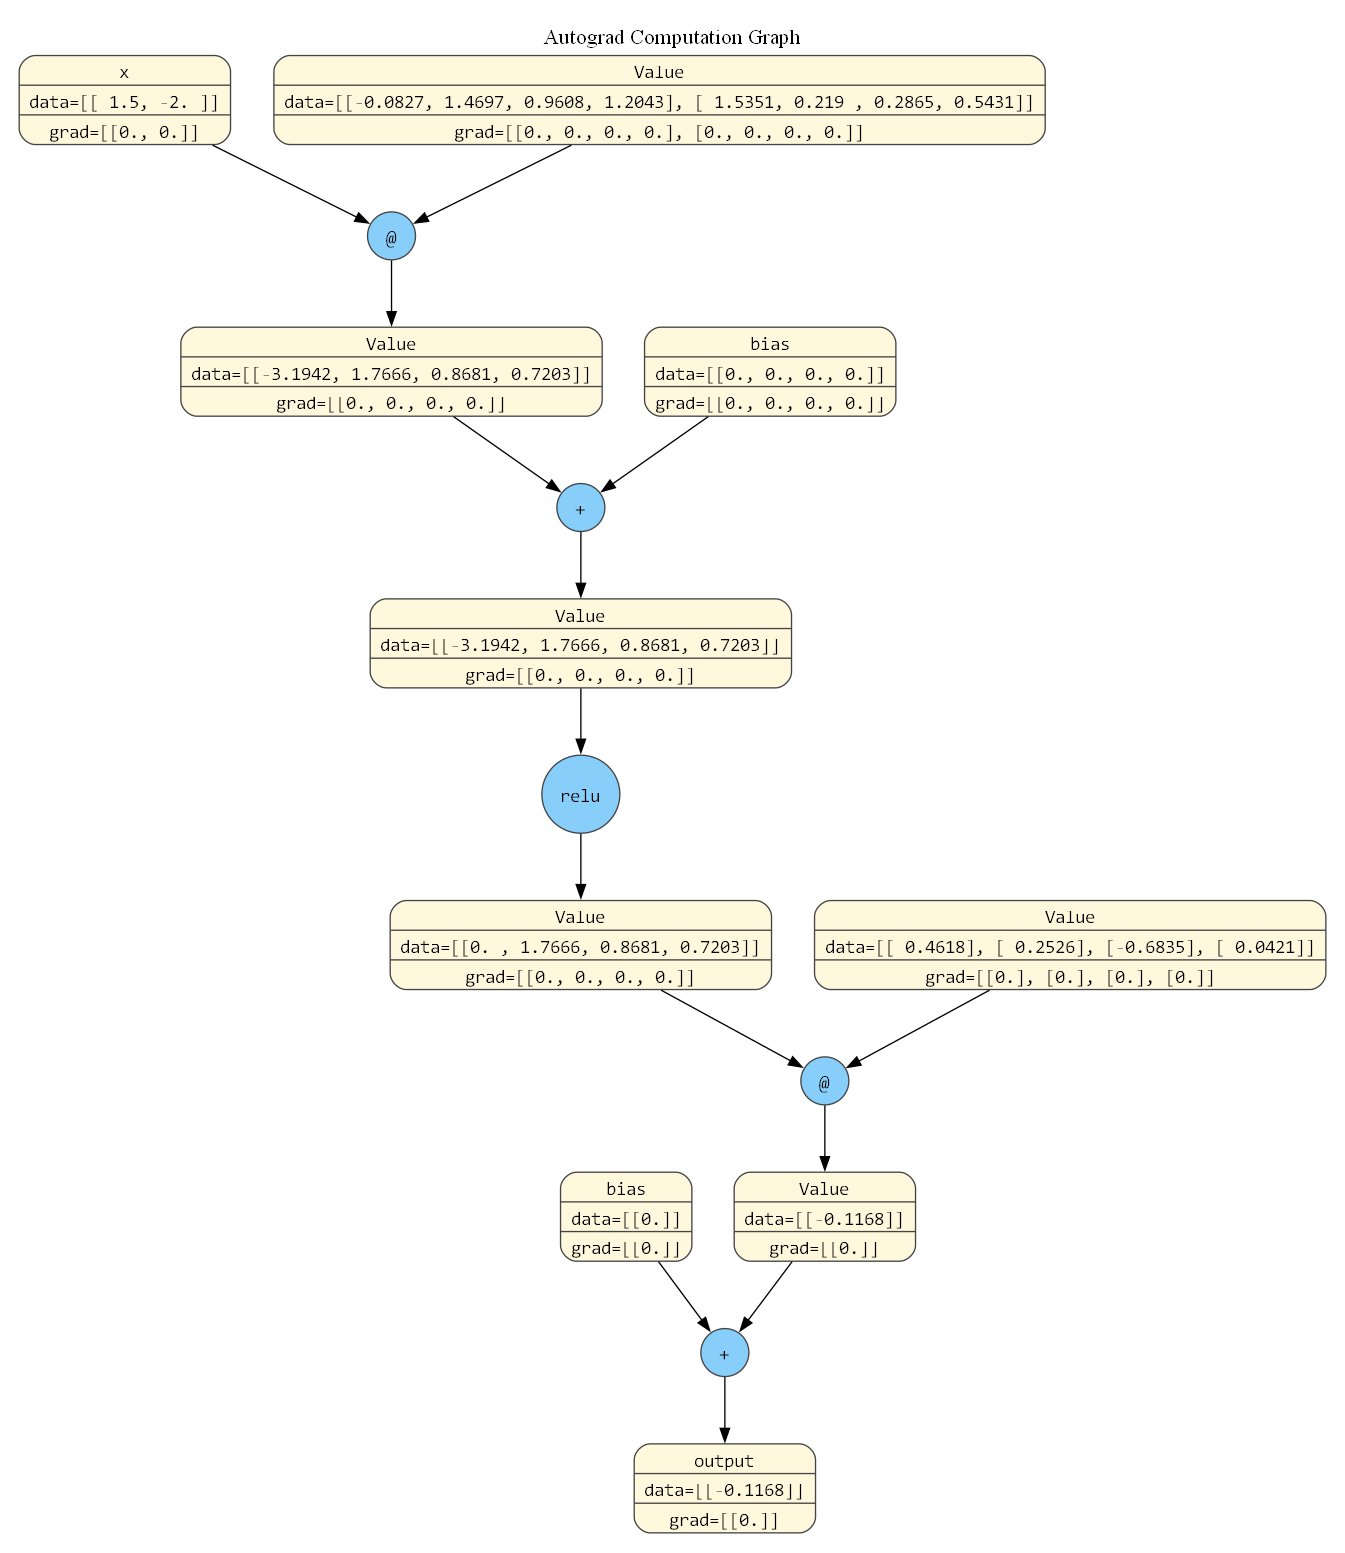
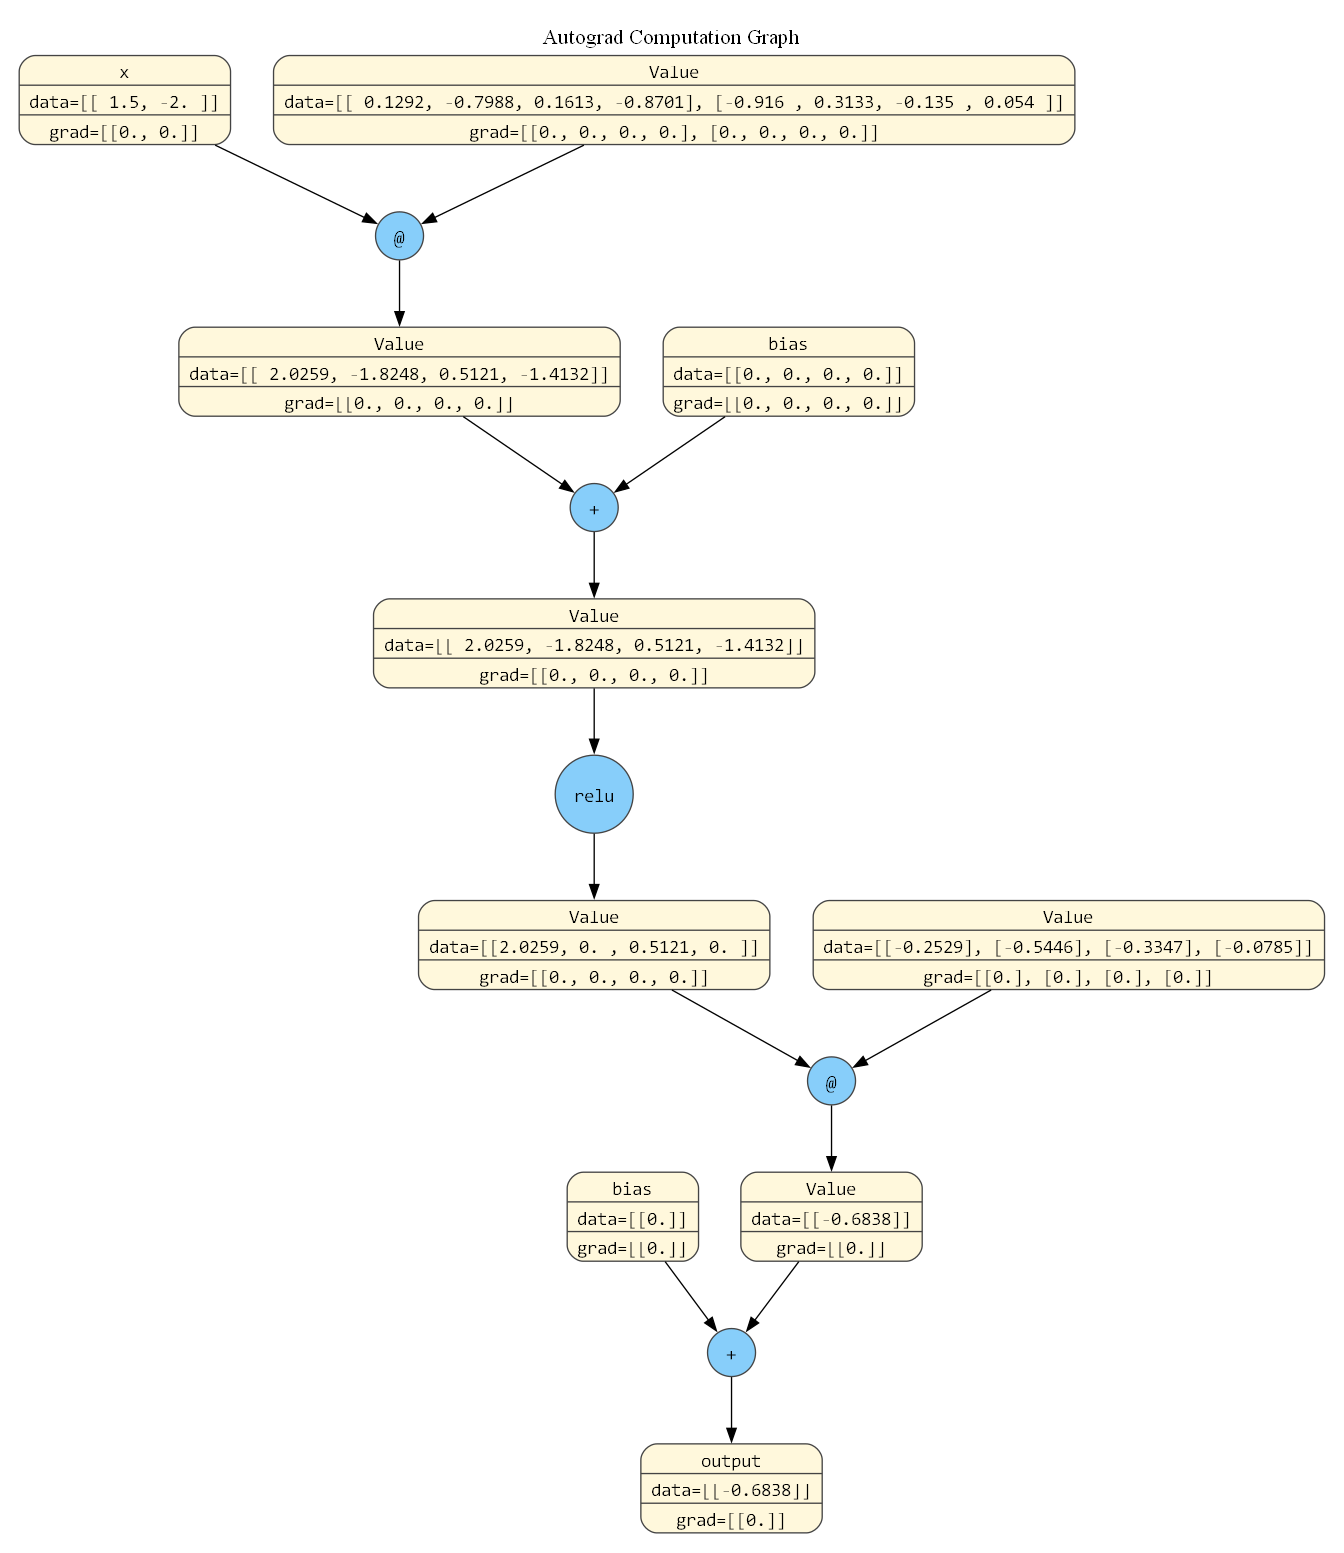
Guard Windows Graphviz PATH with platform check

diff --git a/scripts/graphviz_visualizer.py b/scripts/graphviz_visualizer.py
@@ -14,14 +14,16 @@ Example
 >>> dot.render("autograd_graph")
 """
 
-from pathlib import Path
-import sys
 import os
+import sys
+import platform
+from pathlib import Path
 
-os.environ["PATH"] = (
-    r"C:\Program Files\Graphviz\bin;"
-    + os.environ["PATH"]
-)
+if platform.system() == "Windows":
+    os.environ["PATH"] = (
+        r"C:\Program Files\Graphviz\bin;"
+        + os.environ["PATH"]
+    )
 
 import graphviz
 import numpy as np